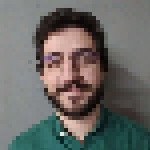
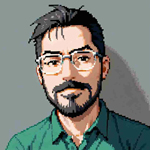
WIP dialogues characters images

diff --git a/code/dialogues.py b/code/dialogues.py
@@ -61,14 +61,14 @@ class Dialogues:
             self.message = [
             "I'm Marta!"
             ]
-            self.imagem_path = get_resource_path('graphics/dialogues/martinez.jpg')
-            self.nome = self.font_nome.render('Dra. Marta', True, 'black')
+            self.imagem_path = get_resource_path('graphics/dialogues/Marta.jpg')
+            self.nome = self.font_nome.render('Dra. Sampaio', True, 'black')
         
         elif self.character == 'Capela':
             self.message = [
             "I'm Capela!"
             ]
-            self.imagem_path = get_resource_path('graphics/dialogues/silva.jpg')
+            self.imagem_path = get_resource_path('graphics/dialogues/Capela.jpg')
             self.nome = self.font_nome.render('Dr. Capela', True, 'black')
 
         elif self.character == 'Fernanda':
@@ -78,7 +78,7 @@ class Dialogues:
             "by studying their interactions with the host organisms.",
             "Interesting, right?"
             ]
-            self.imagem_path = get_resource_path('graphics/dialogues/martinez.jpg')
+            self.imagem_path = get_resource_path('graphics/dialogues/Fernanda.jpg')
             self.nome = self.font_nome.render('Dra. Vieira', True, 'black')
 
         elif self.character == 'Alexandre':
@@ -88,7 +88,7 @@ class Dialogues:
             "metabolic models.",
             "SARS-COV-2 is a strain of coronavirus that causes COVID-19!"
             ]
-            self.imagem_path = get_resource_path('graphics/dialogues/silva.jpg')
+            self.imagem_path = get_resource_path('graphics/dialogues/Alexandre.jpg')
             self.nome = self.font_nome.render('Dr. Oliveira', True, 'black')
 
         elif self.character == 'Emanuel':
@@ -98,7 +98,7 @@ class Dialogues:
             "genome-scale metabolic models.",
             "Do you already know what GEMs are?"
             ]
-            self.imagem_path = get_resource_path('graphics/dialogues/silva.jpg')
+            self.imagem_path = get_resource_path('graphics/dialogues/Emanuel.jpg')
             self.nome = self.font_nome.render('Dr. Cunha', True, 'black')
 
         else:
